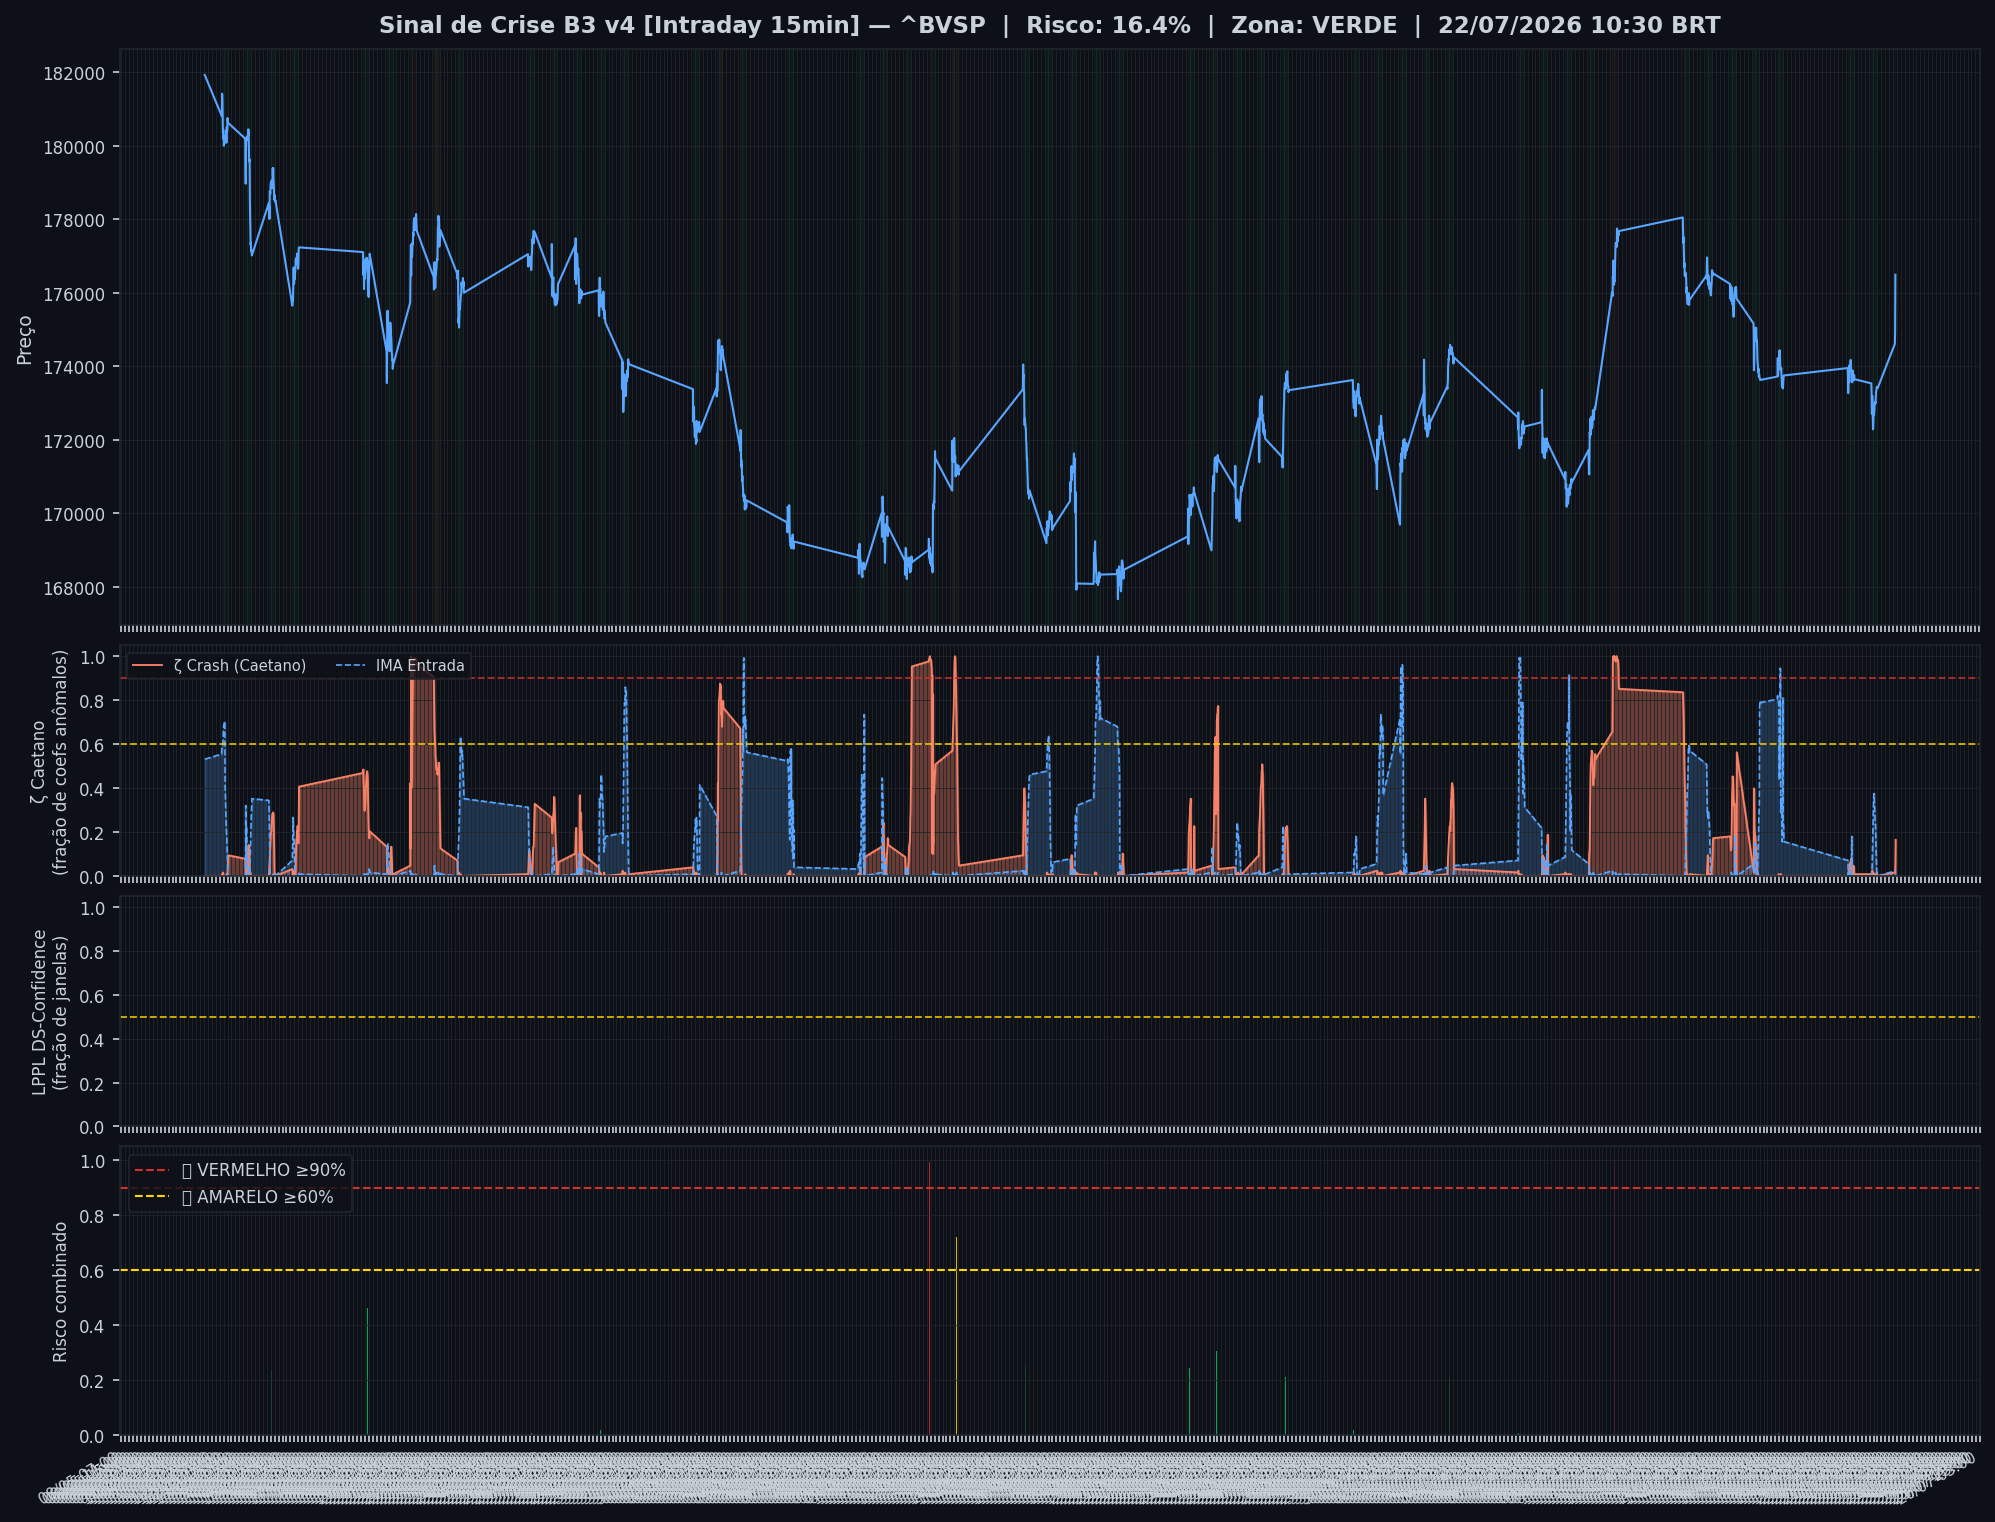
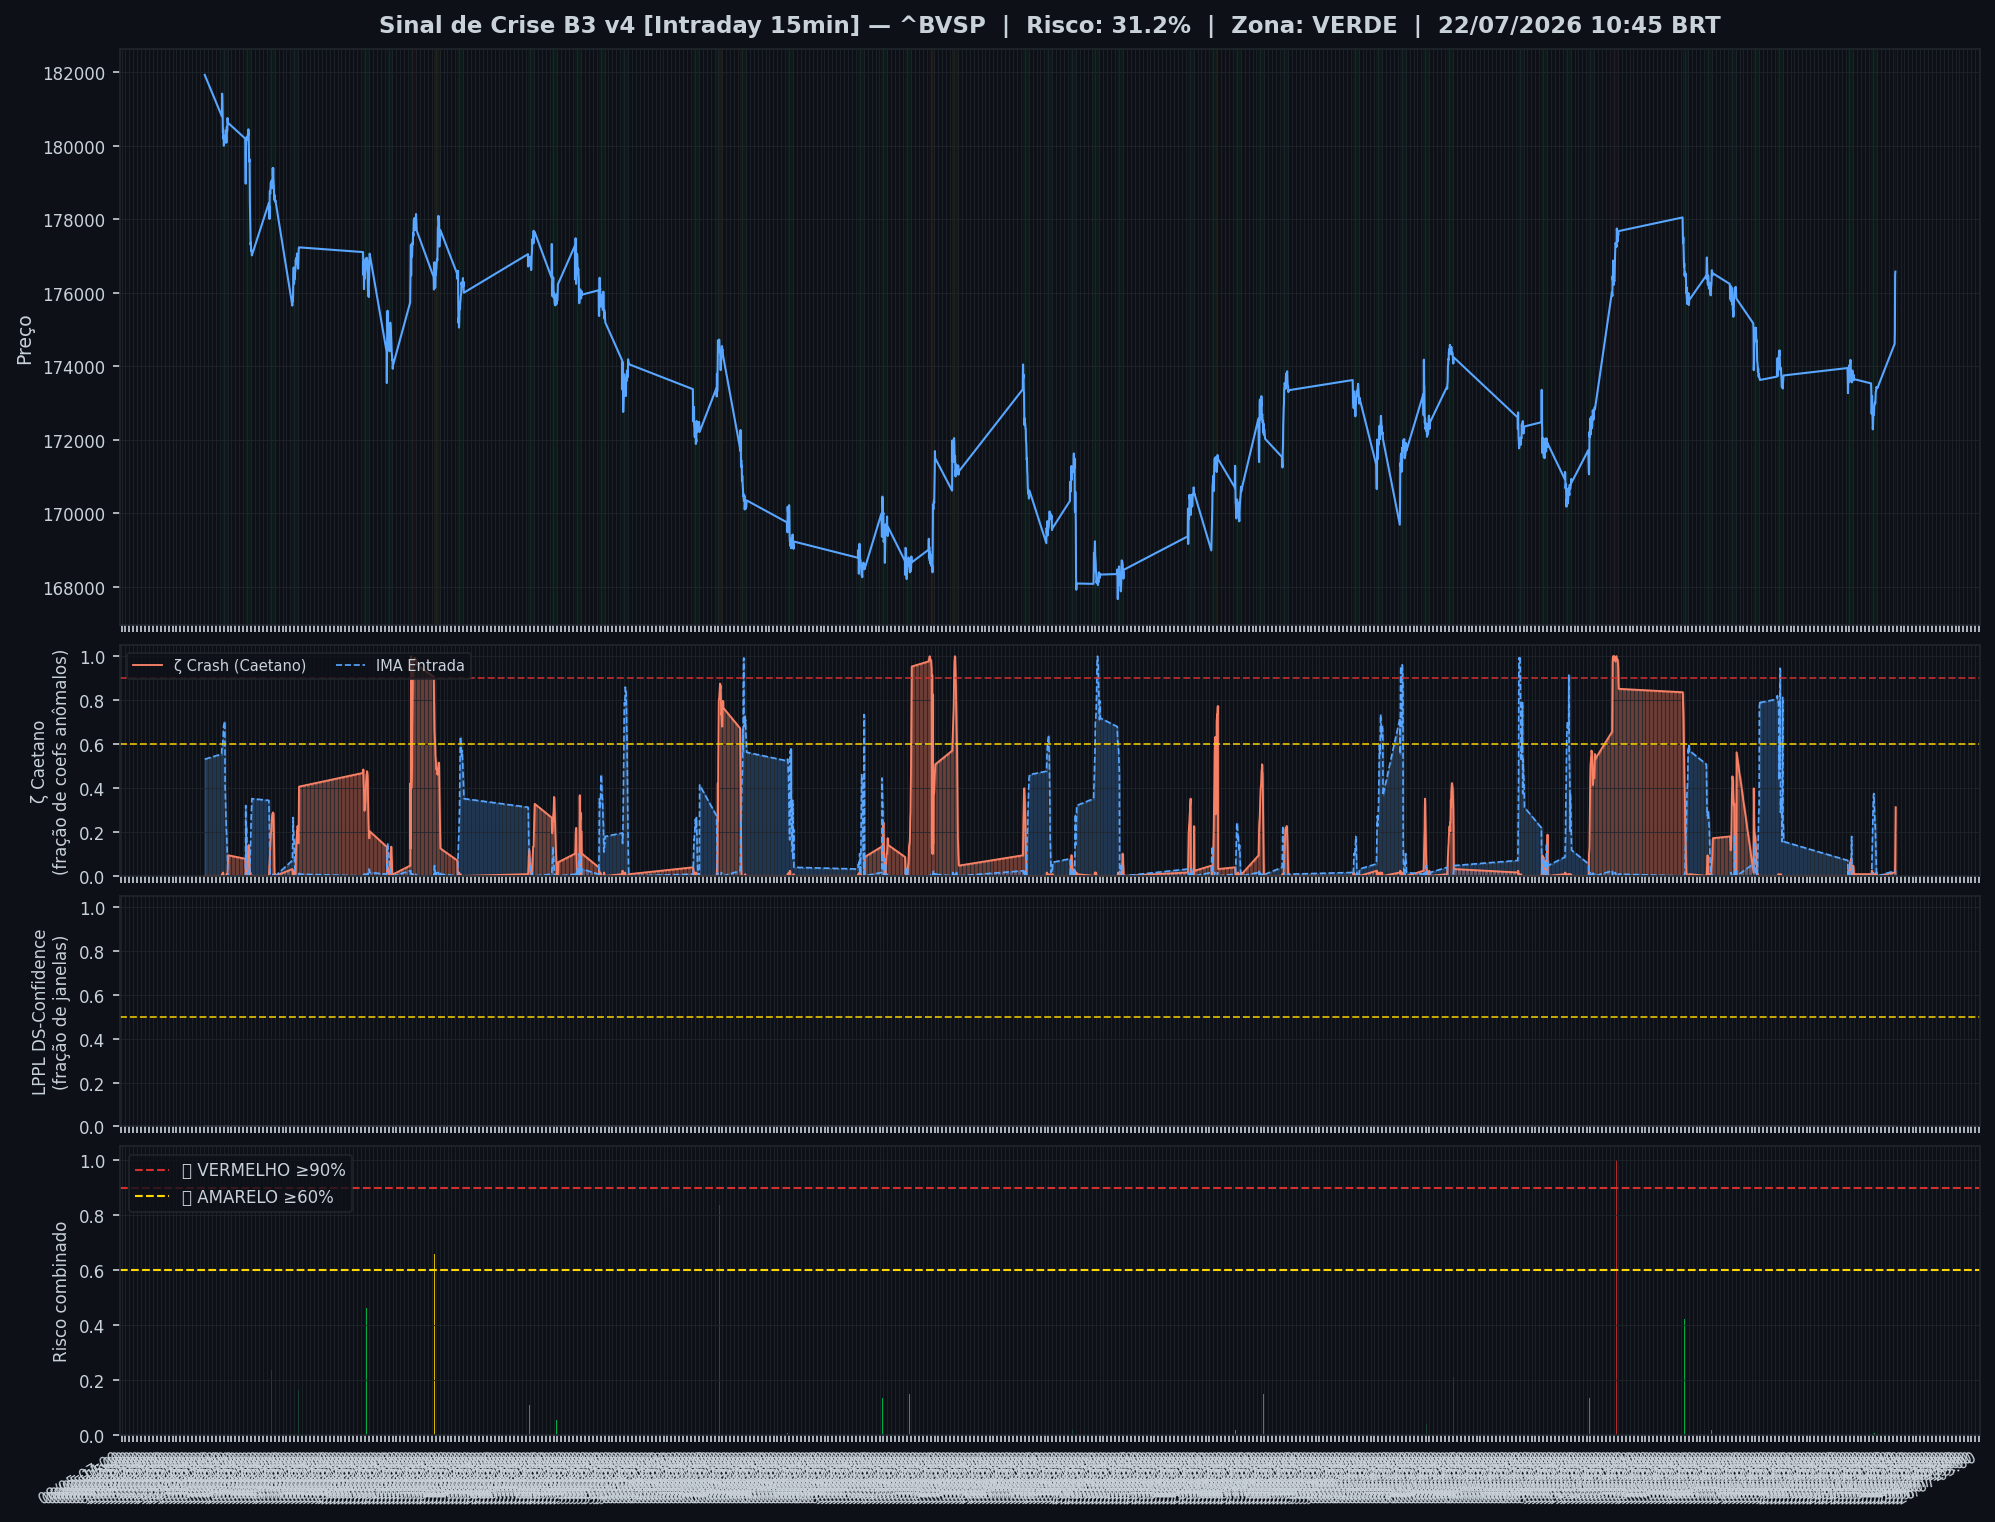
🤖 Auto: Sinal 22/07/2026 11:30

diff --git a/content/intraday/2026-07-22.md b/content/intraday/2026-07-22.md
@@ -1,20 +1,20 @@
 ---
-title: "🟢 Intraday 22/07/2026 10:30 BRT — VERDE"
+title: "🟢 Intraday 22/07/2026 10:45 BRT — VERDE"
 date: 2026-07-22
 tags: [intraday]
 ---
 
-> [!success] 🟢 **VERDE** — Risco 16% · ▲ +11 p.p. vs leitura anterior
-> `███░░░░░░░░░░░░░░░░░`
+> [!success] 🟢 **VERDE** — Risco 31% · ▲ +15 p.p. vs leitura anterior
+> `██████░░░░░░░░░░░░░░`
 > Mercado sem sinais relevantes de estresse.
 
 
 | Indicador | Valor |
 |---|---|
-| 🔴 ζ Crash — severidade da queda em curso | **16%** |
+| 🔴 ζ Crash — severidade da queda em curso | **31%** |
 | 🔵 ζ Entrada — estrutura de fundo | 2% |
 | 🫧 LPPL DS-Confidence | 0% |
-| 📊 Ibovespa | 176.492 pts |
+| 📊 Ibovespa | 176.577 pts |
 
 ![Gráfico do sinal](../graficos/sinal_intraday.png)
 
@@ -22,6 +22,7 @@ tags: [intraday]
 
 | Data | Zona | Risco | IMA Crash | Entrada | LPPL |
 |---|---|---|---|---|---|
+| 2026-07-22 10:45 | 🟢 VERDE | **31%** | 31% | 2% | 0% |
 | 2026-07-22 10:30 | 🟢 VERDE | **16%** | 16% | 2% | 0% |
 | 2026-07-22 10:15 | 🟢 VERDE | **5%** | 5% | 2% | 0% |
 | 2026-07-22 10:00 | 🟢 VERDE | **2%** | 2% | 2% | 0% |
@@ -51,7 +52,6 @@ tags: [intraday]
 | 2026-07-21 11:00 | 🟢 VERDE | **1%** | 1% | 13% | 0% |
 | 2026-07-21 10:45 | 🟢 VERDE | **2%** | 2% | 7% | 0% |
 | 2026-07-21 10:30 | 🟢 VERDE | **2%** | 2% | 2% | 0% |
-| 2026-07-21 10:15 | 🟢 VERDE | **1%** | 1% | 0% | 0% |
 
 ## Monitor Multi-Ativo
 
@@ -59,37 +59,37 @@ tags: [intraday]
 
 | Zona | Ativo | Setor | IMA Crash | IMA Entrada |
 |---|---|---|---|---|
-| 🟢 | **VALE** | Mineração | 1.6% | 7.0% |
-| 🟢 | **ITAUUNIBANCO** | Financeiro | 1.6% | 7.0% |
-| 🟢 | **PETROBRAS** | Petróleo | 1.6% | 7.0% |
-| 🟢 | **AXIA ENERGIA** | Energia | 1.6% | 7.0% |
-| 🟢 | **PETROBRAS** | Petróleo | 1.6% | 7.0% |
-| 🟢 | **BRADESCO** | Financeiro | 1.6% | 7.0% |
-| 🟢 | **SABESP** | Saneamento | 1.6% | 7.0% |
-| 🟢 | **ITAUSA** | Financeiro | 1.6% | 7.0% |
-| 🟢 | **B3** | Financeiro | 1.6% | 7.0% |
-| 🟢 | **AMBEV S/A** | Consumo | 1.6% | 7.0% |
-| 🟢 | **BTGP BANCO** | Financeiro | 1.6% | 7.0% |
-| 🟢 | **WEG** | Industrial | 1.6% | 7.0% |
-| 🟢 | **BRASIL** | Financeiro | 1.6% | 7.0% |
-| 🟢 | **EMBRAER** | Outros | 1.6% | 7.0% |
-| 🟢 | **ENEVA** | Energia | 1.6% | 7.0% |
-| 🟢 | **EQUATORIAL** | Energia | 1.6% | 7.0% |
-| 🟢 | **PRIO** | Petróleo | 1.6% | 7.0% |
-| 🟢 | **COPEL** | Energia | 1.6% | 7.0% |
-| 🟢 | **VIBRA** | Energia | 1.6% | 7.0% |
-| 🟢 | **REDE D OR** | Saúde | 1.6% | 7.0% |
-| 🟢 | **LOCALIZA** | Aluguel | 1.6% | 7.0% |
-| 🟢 | **ULTRAPAR** | Outros | 1.6% | 7.0% |
-| 🟢 | **GERDAU** | Siderurgia | 1.6% | 7.0% |
-| 🟢 | **BBSEGURIDADE** | Financeiro | 1.6% | 7.0% |
-| 🟢 | **SUZANO S.A.** | Papel/Celulose | 1.6% | 7.0% |
-| 🟢 | **TELEF BRASIL** | Outros | 1.6% | 7.0% |
-| 🟢 | **USD/BRL** | Câmbio | 0.0% | 9.4% |
+| 🟢 | **VALE** | Mineração | 0.0% | 9.4% |
+| 🟢 | **ITAUUNIBANCO** | Financeiro | 0.0% | 9.4% |
+| 🟢 | **PETROBRAS** | Petróleo | 0.0% | 9.4% |
+| 🟢 | **AXIA ENERGIA** | Energia | 0.0% | 9.4% |
+| 🟢 | **PETROBRAS** | Petróleo | 0.0% | 9.4% |
+| 🟢 | **BRADESCO** | Financeiro | 0.0% | 9.4% |
+| 🟢 | **SABESP** | Saneamento | 0.0% | 9.4% |
+| 🟢 | **ITAUSA** | Financeiro | 0.0% | 9.4% |
+| 🟢 | **B3** | Financeiro | 0.0% | 9.4% |
+| 🟢 | **AMBEV S/A** | Consumo | 0.0% | 9.4% |
+| 🟢 | **BTGP BANCO** | Financeiro | 0.0% | 9.4% |
+| 🟢 | **WEG** | Industrial | 0.0% | 9.4% |
+| 🟢 | **BRASIL** | Financeiro | 0.0% | 9.4% |
+| 🟢 | **EMBRAER** | Outros | 0.0% | 9.4% |
+| 🟢 | **ENEVA** | Energia | 0.0% | 9.4% |
+| 🟢 | **EQUATORIAL** | Energia | 0.0% | 9.4% |
+| 🟢 | **PRIO** | Petróleo | 0.0% | 9.4% |
+| 🟢 | **COPEL** | Energia | 0.0% | 9.4% |
+| 🟢 | **VIBRA** | Energia | 0.0% | 9.4% |
+| 🟢 | **REDE D OR** | Saúde | 0.0% | 9.4% |
+| 🟢 | **LOCALIZA** | Aluguel | 0.0% | 9.4% |
+| 🟢 | **ULTRAPAR** | Outros | 0.0% | 9.4% |
+| 🟢 | **GERDAU** | Siderurgia | 0.0% | 9.4% |
+| 🟢 | **BBSEGURIDADE** | Financeiro | 0.0% | 9.4% |
+| 🟢 | **SUZANO S.A.** | Papel/Celulose | 0.0% | 9.4% |
+| 🟢 | **TELEF BRASIL** | Outros | 0.0% | 9.4% |
+| 🟢 | **USD/BRL** | Câmbio | 0.0% | 8.6% |
 
 ![Monitor multi-ativo](../graficos/multi_intraday.png)
 
-*Página atualizada em 22/07/2026 11:15 BRT (leitura da barra de 2026-07-22 10:30 BRT).*
+*Página atualizada em 22/07/2026 11:30 BRT (leitura da barra de 2026-07-22 10:45 BRT).*
 
 > [!info]- Como interpretar (clique para expandir)
 > - **ζ Crash**: fração dos coeficientes wavelet acima do corte (Caetano & Yoneyama 2009). Escala absoluta: ζ=0,90 = 90% dos coeficientes anômalos — historicamente, quedas com ζ≥0,90 foram mais fundas e mais longas. **Mede a severidade do movimento em curso, não prevê o início da queda.**

diff --git a/content/index.md b/content/index.md
@@ -8,19 +8,19 @@ tags: [home]
 
 Monitoramento diário e intraday do Ibovespa — **IMA Wavelet** (Prof. Marco Antonio Leonel Caetano, ITA/INSPER) + **LPPL DS-Confidence** (Prof. Didier Sornette, ETH-Zurich).
 
-*Última atualização: 22/07/2026 11:15 BRT · ^BVSP · Intraday 15min · v4*
+*Última atualização: 22/07/2026 11:30 BRT · ^BVSP · Intraday 15min · v4*
 
-> [!success] 🟢 **VERDE** — Risco 16% · ▲ +11 p.p. vs leitura anterior
-> `███░░░░░░░░░░░░░░░░░`
+> [!success] 🟢 **VERDE** — Risco 31% · ▲ +15 p.p. vs leitura anterior
+> `██████░░░░░░░░░░░░░░`
 > Mercado sem sinais relevantes de estresse.
 
 
 | Indicador | Valor |
 |---|---|
-| 🔴 ζ Crash — severidade da queda em curso | **16%** |
+| 🔴 ζ Crash — severidade da queda em curso | **31%** |
 | 🔵 ζ Entrada — estrutura de fundo | 2% |
 | 🫧 LPPL DS-Confidence | 0% |
-| 📊 Ibovespa | 176.492 pts |
+| 📊 Ibovespa | 176.577 pts |
 
 **Multi-ativo:** 0% em tensão (0🔴 0🟡 de 27 ativos)
 
@@ -32,7 +32,7 @@ Monitoramento diário e intraday do Ibovespa — **IMA Wavelet** (Prof. Marco An
 
 | Data | Zona | Risco | IMA | LPPL |
 |---|---|---|---|---|
-| [22 Jul 2026](diario/2026-07-22) | 🟢 VERDE | **16%** | 16% | 0% |
+| [22 Jul 2026](diario/2026-07-22) | 🟢 VERDE | **31%** | 31% | 0% |
 | [21 Jul 2026](diario/2026-07-21) | 🟢 VERDE | **0%** | 0% | 0% |
 
 ## Navegação

diff --git a/content/historico.md b/content/historico.md
@@ -7,6 +7,7 @@ tags: [historico]
 
 | Data | Modo | Zona | Risco | IMA | LPPL |
 |---|---|---|---|---|---|
+| 2026-07-22 10:45 | intraday | 🟢 VERDE | 31% | 31% | 0% |
 | 2026-07-22 10:30 | intraday | 🟢 VERDE | 16% | 16% | 0% |
 | 2026-07-22 10:15 | intraday | 🟢 VERDE | 5% | 5% | 0% |
 | 2026-07-22 10:00 | intraday | 🟢 VERDE | 2% | 2% | 0% |
